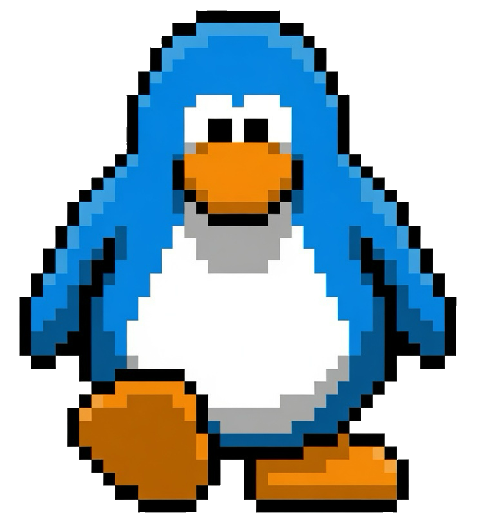
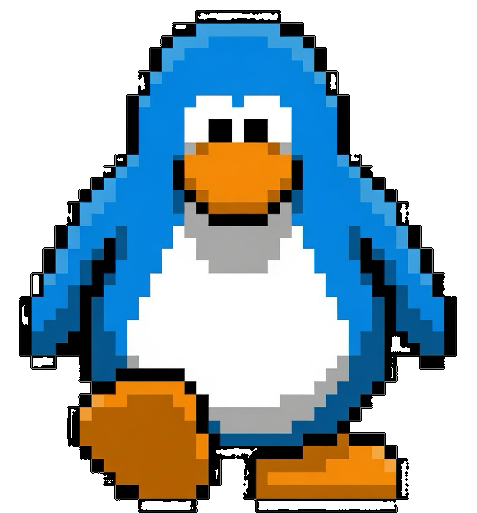
fix: consistent penguin outlines for side, back, and walk plates
Regenerate side and back idle/walk with Grok Imagine from the front idle
so profiles share the same chunky Club Penguin look. Pipeline keys magenta
backgrounds, repairs exterior outlines, and pads every facing onto the
shared 477×513 canvas. Fixes side torso seam artifacts, thin back outlines,
and body-size drift across facings.

diff --git a/src/appVersion.ts b/src/appVersion.ts
@@ -5,4 +5,4 @@
  * feature ships — patch for fixes, minor for features, major for breaking
  * changes. Keep both files in sync.
  */
-export const APP_VERSION = '1.23.0';
+export const APP_VERSION = '1.23.1';

diff --git a/scripts/reference/penguin/README.md b/scripts/reference/penguin/README.md
@@ -22,20 +22,20 @@ When the player stops, scenes set texture frame **0** — standing idle, not a
 mid-walk hop. Walk anims cycle frames **1↔2** so feet truly alternate (never
 plant + one-foot hop, which reads as sliding on one foot).
 
-## Back walk depth (up-1 / up-2)
+## Side facing (v4)
 
-Back-facing walk plates step **away from the camera**: the raised foot sits
-**in front of** the penguin (partially hidden under the body), and the planted
-foot is fully visible at the bottom (toward the camera). Sources:
-`imagine-back-walk-v2/` (up-2 from Imagine; up-1 is a horizontal mirror).
+Side idle + walk plates regenerated with Grok Imagine from the front idle
+(`down-0`) so the profile matches the same chunky Club Penguin pixel look
+(white eye + black pupil, short beak, flippers by the body, clean torso with
+no diagonal seam artifacts). Sources under `imagine-side-v4/`; game inputs
+`poses/side-{0,1,2}.png`.
 
-## Side facing (v3)
+## Back facing (v3)
 
-Side idle + walk plates were regenerated with Grok Imagine using the current
-front (`down-*`) and back (`up-*`) game sprites as style references so the
-profile matches the same chunky Club Penguin pixel look (white eye + black
-pupil, short beak, flippers by the body). Sources live under
-`imagine-side-v3/`; game inputs under `poses/side-{0,1,2}.png`.
+Back idle + walk plates regenerated from the same front idle anchor. Walk
+steps **away from the camera** (raised foot partially under the body; planted
+foot toward the camera). Sources under `imagine-back-v3/`. Pipeline always
+runs `repairExternalOutline` so every facing shares a clean 1px exterior rim.
 
 ## Wave (Imagine)
 
